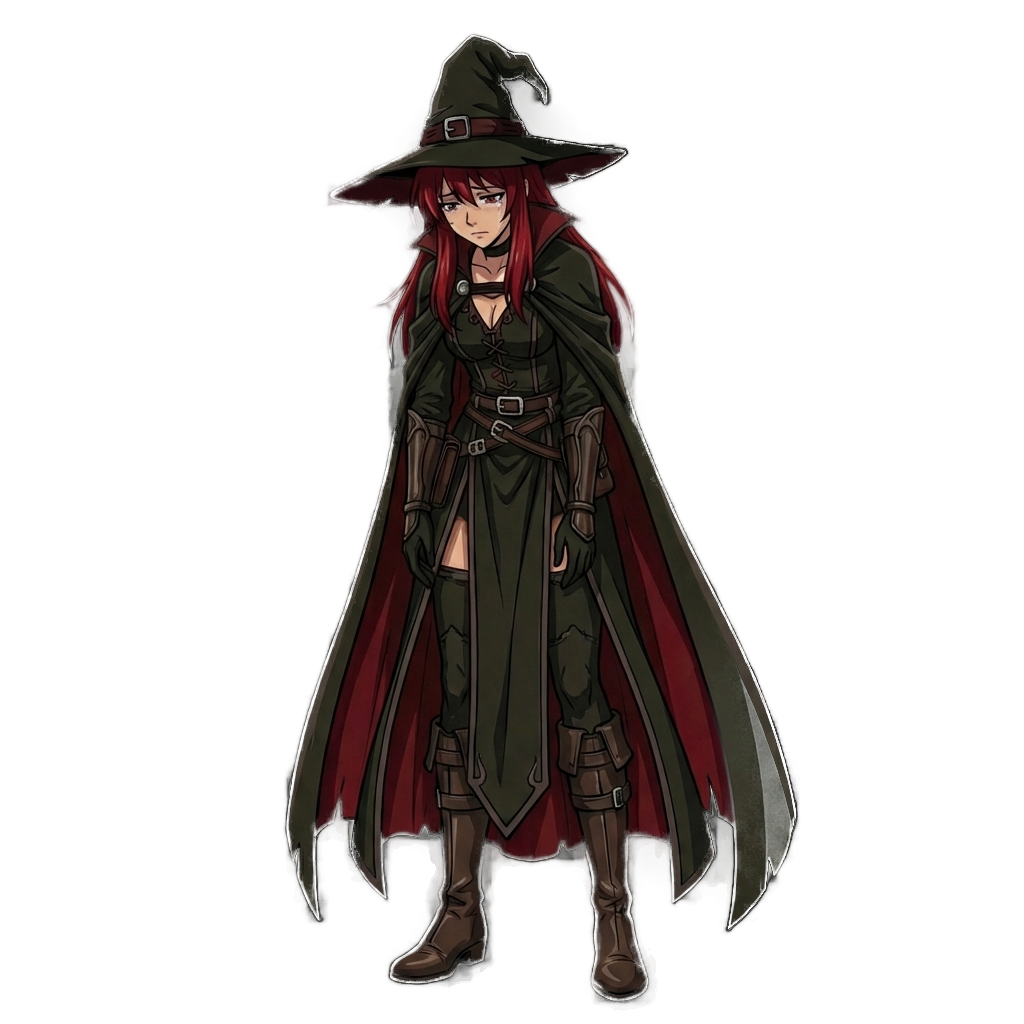
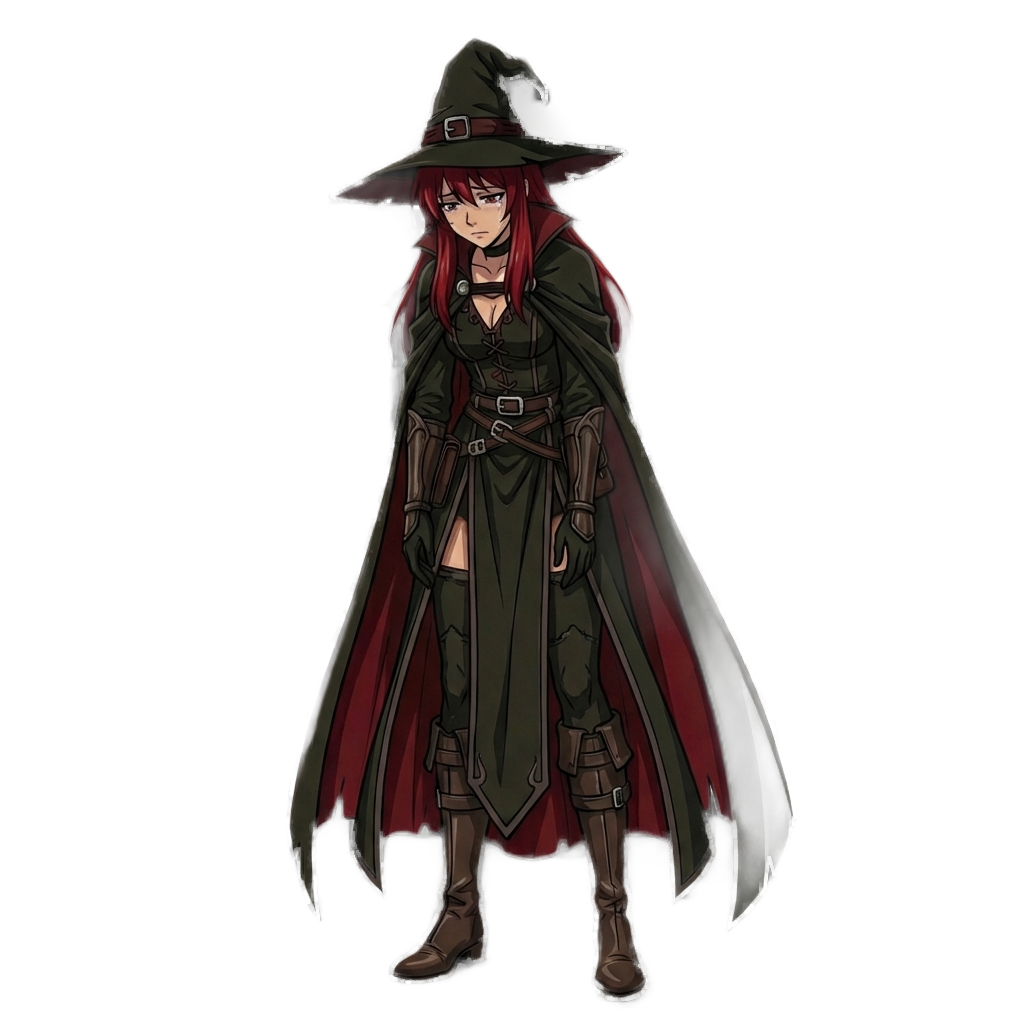
Assets: Refined Lucrea sprites using Mask Erosion (MinFilter) to remove white halos

diff --git a/scripts/remove_bg.py b/scripts/remove_bg.py
@@ -1,7 +1,7 @@
 import os
 import argparse
 from rembg import remove, new_session
-from PIL import Image
+from PIL import Image, ImageFilter
 
 def process_image(input_path, output_path=None, session=None):
     if not output_path:
@@ -50,17 +50,18 @@ if __name__ == "__main__":
                     try:
                         # Open
                         inp = Image.open(input_path)
-                        # Remove BG using specialized session with Aggressive Alpha Matting
-                        # Erode size 15 to eat into white edges
-                        print(f"  - Removing BG (Aggressive Alpha Matting, Erode=15)...")
-                        out = remove(
-                            inp, 
-                            session=session,
-                            alpha_matting=True,
-                            alpha_matting_foreground_threshold=240,
-                            alpha_matting_background_threshold=10,
-                            alpha_matting_erode_size=15
-                        )
+                        # Remove BG (Standard)
+                        out = remove(inp, session=session)
+                        
+                        # Post-Process: Erode Alpha Channel to kill white halos
+                        try:
+                            r, g, b, a = out.split()
+                            # MinFilter(3) shrinks the mask by roughly 1px radius
+                            print(f"  - Eroding edges to remove white halo...")
+                            a = a.filter(ImageFilter.MinFilter(3))
+                            out = Image.merge("RGBA", (r, g, b, a))
+                        except Exception as e:
+                            print(f"  - Erosion failed, skipping: {e}")
                         
                         if args.overwrite:
                             # Backup
